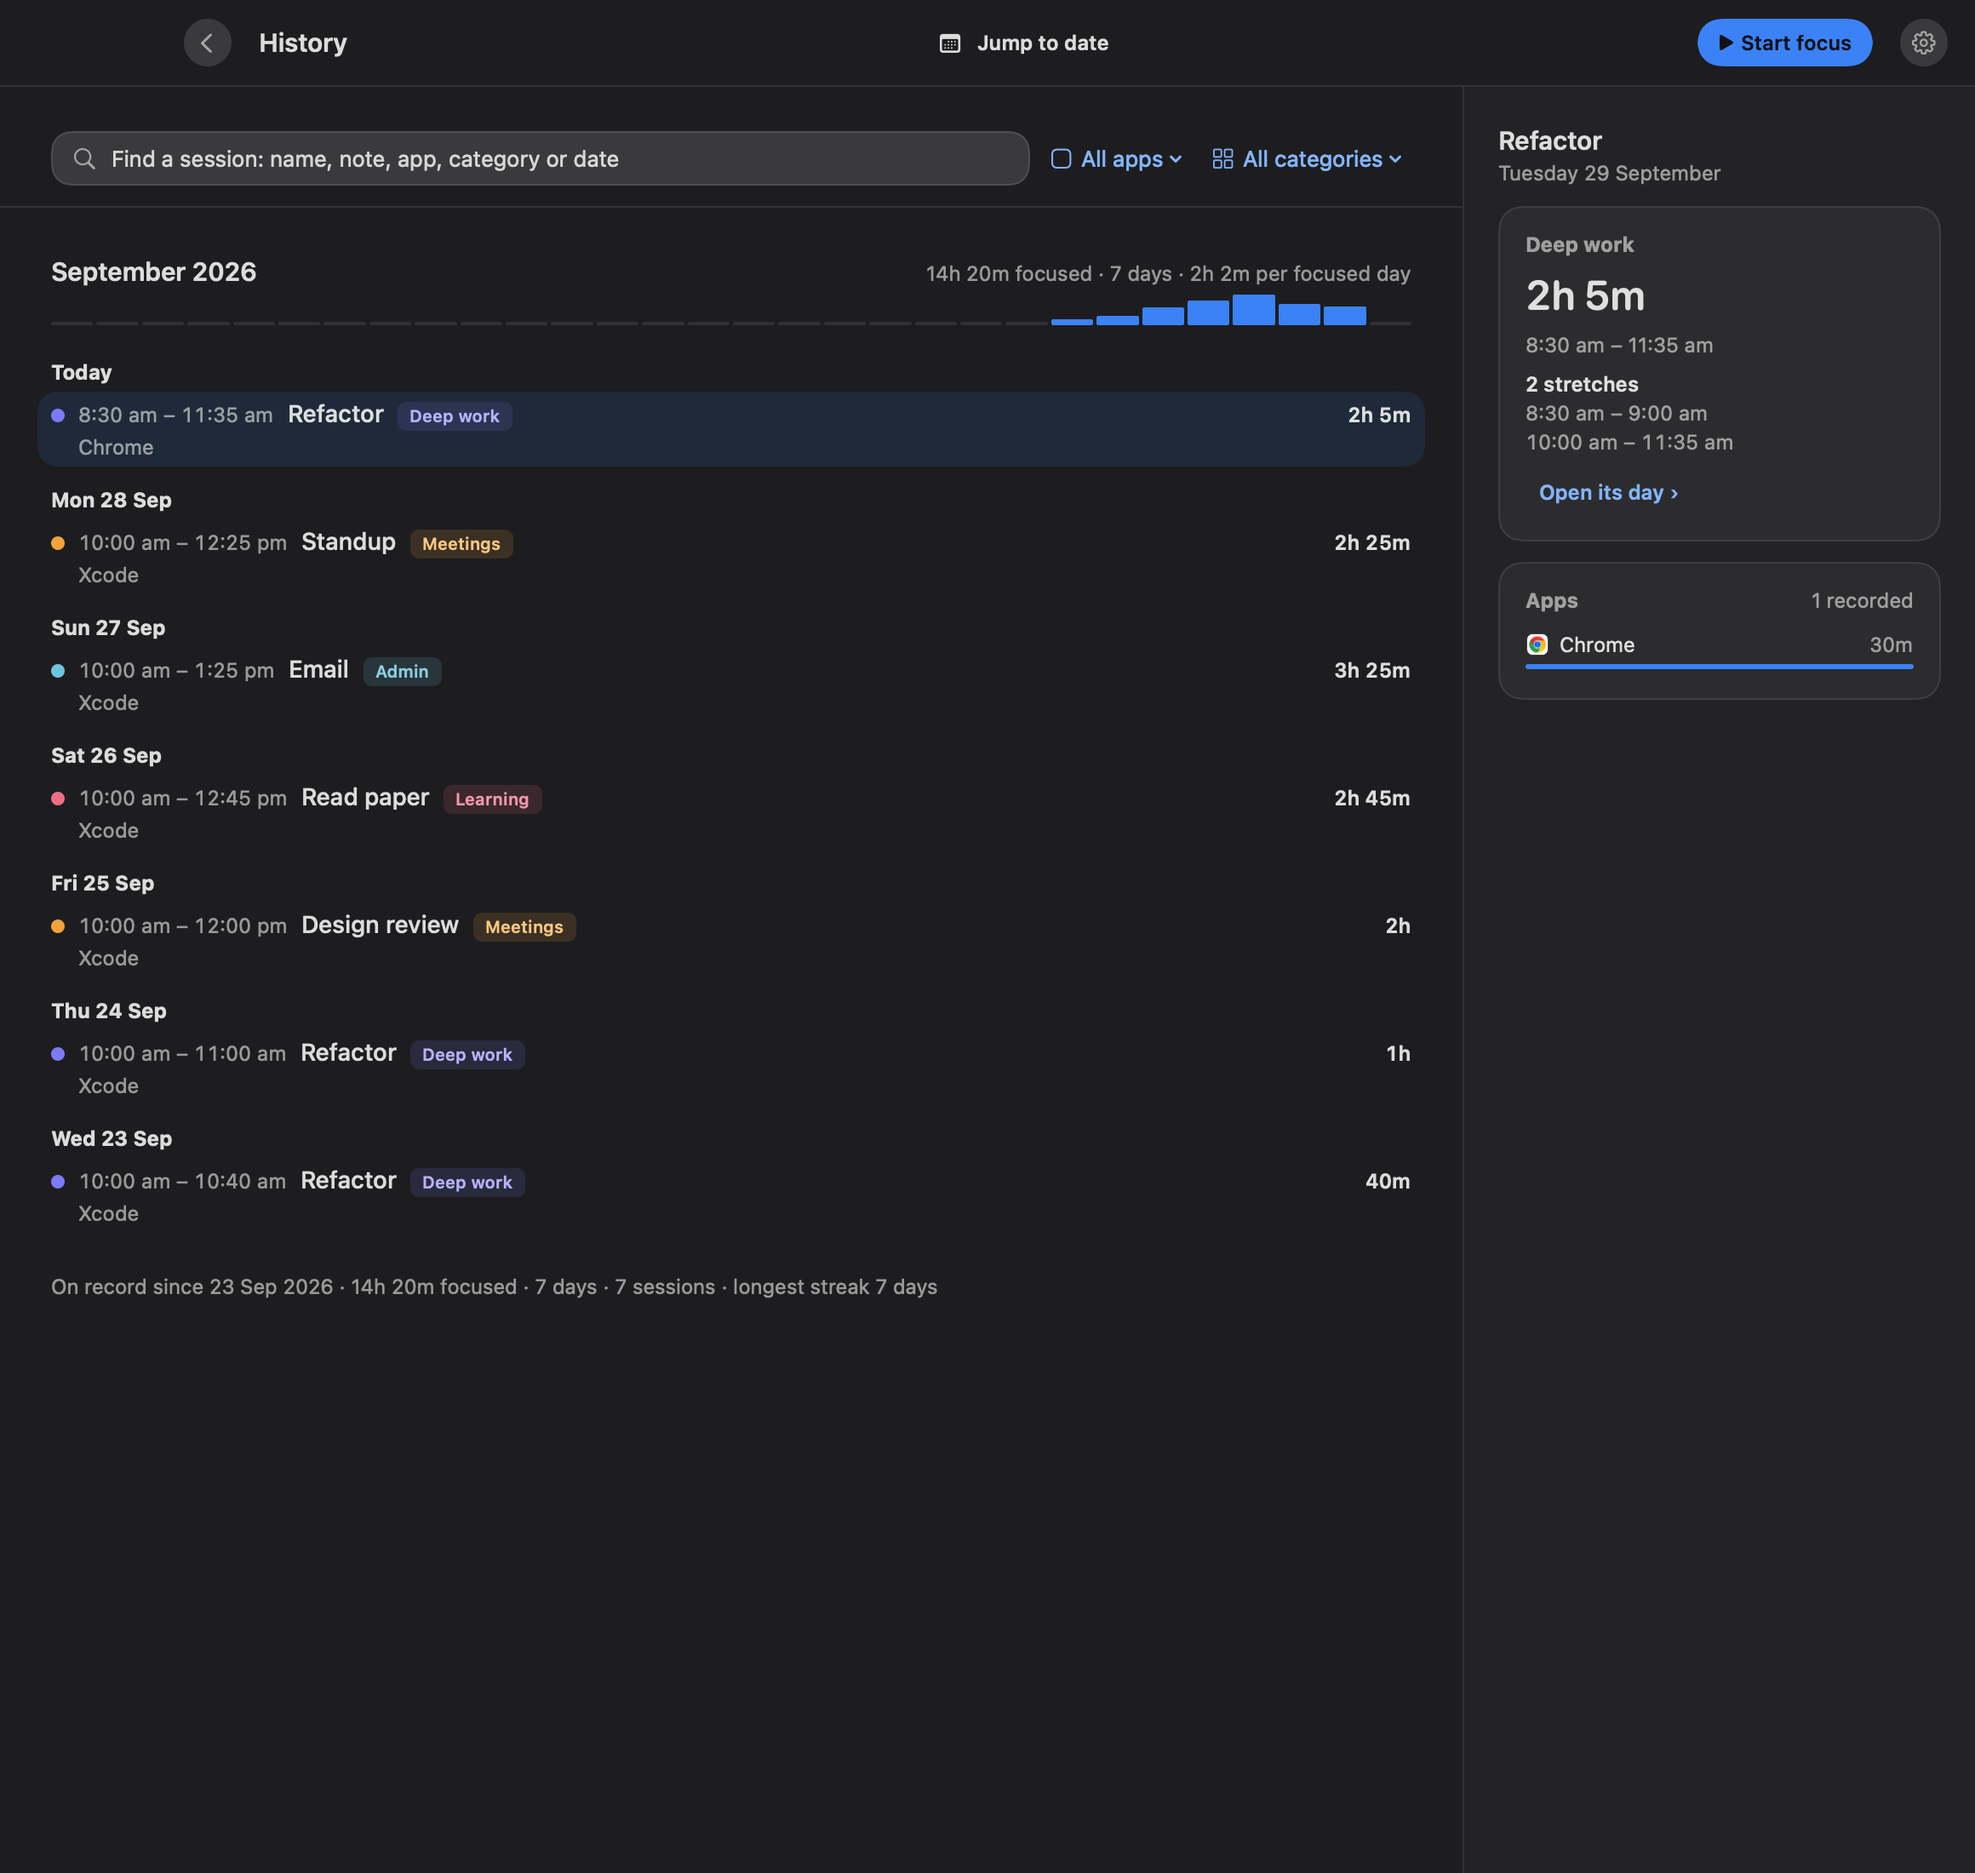
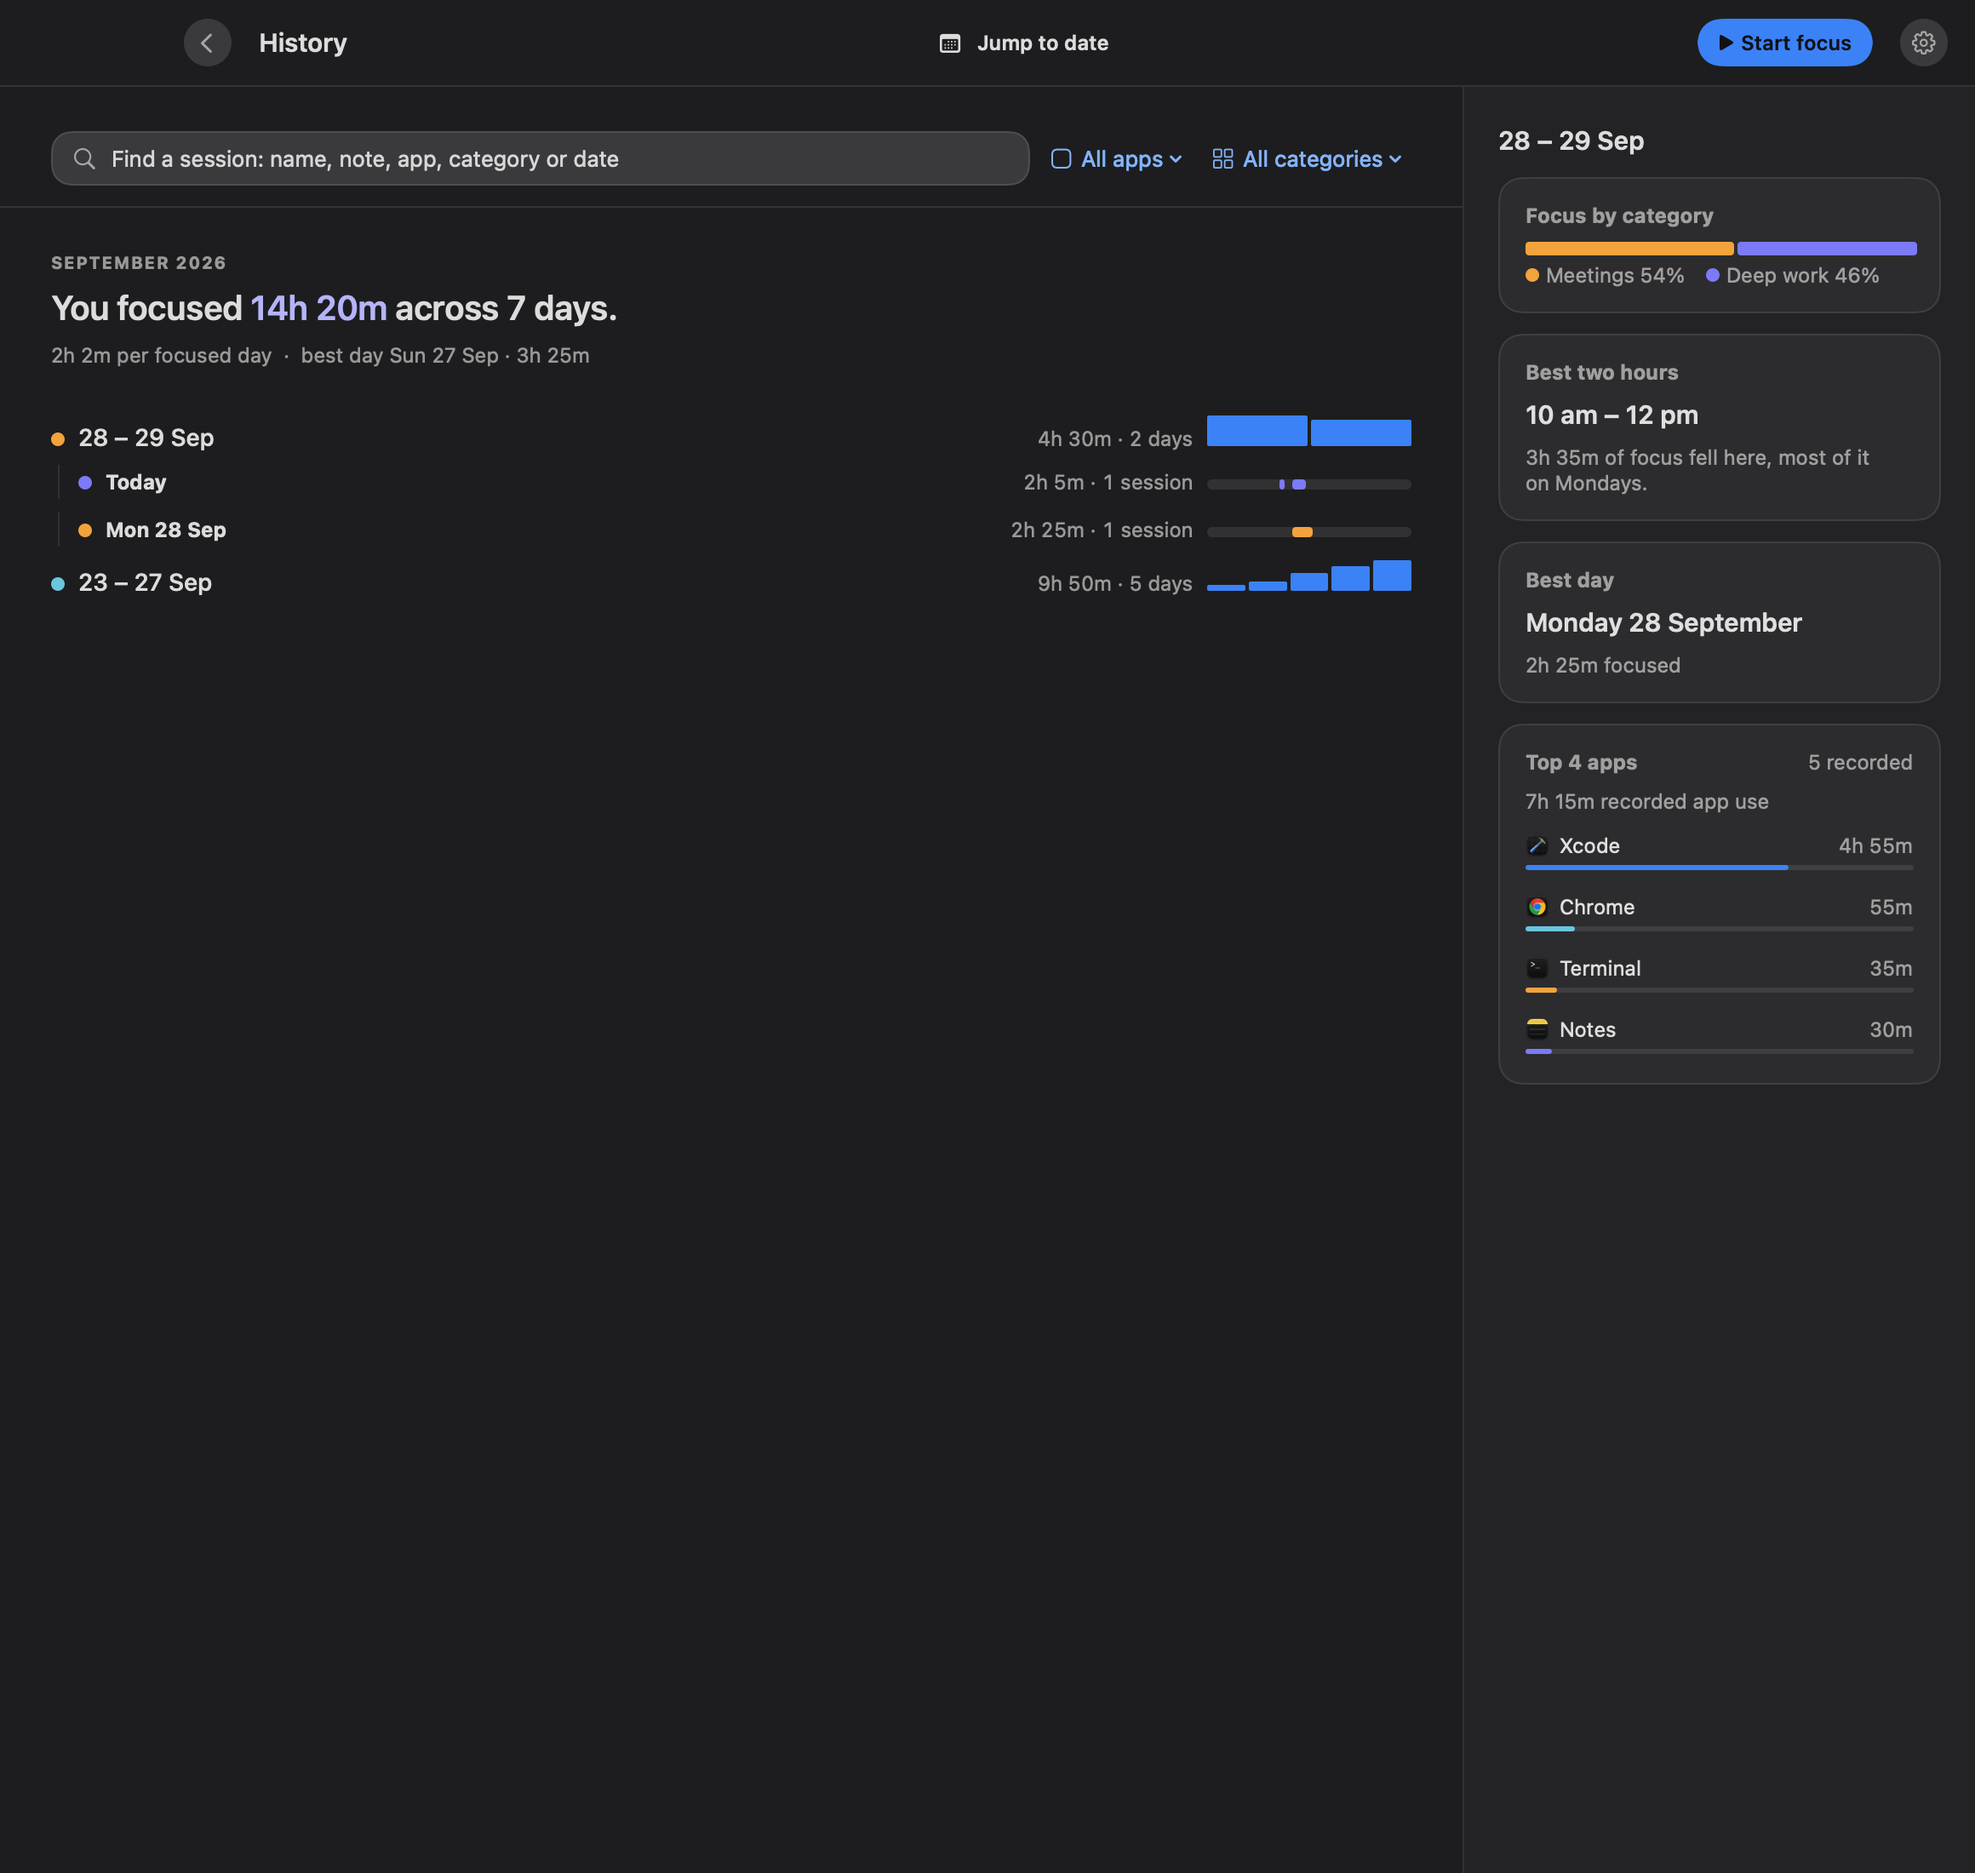
The docs and screenshots show History as one unfolding timeline

diff --git a/Sources/Verification/HistoryTreeChecks.swift b/Sources/Verification/HistoryTreeChecks.swift
@@ -435,6 +435,10 @@ enum HistoryTreeChecks {
         let oneDay = HistoryTreeBuilder.top(days: [row(9, 28, focused: 60, sessions: 1)], today: today, calendar: calendar)
         let weekLine = HistoryRowText.headline(top: oneDay, summary: HistoryTreeBuilder.summary(top: oneDay, days: [row(9, 28, focused: 60, sessions: 1)], calendar: calendar), calendar: calendar)
         if weekLine.sentence != "You focused \(Tokens.duration(60)) across 1 day." { failures.append("one focused day read \(weekLine.sentence)") }
+        // A record of one day, today: its week is that one day, and says so.
+        let oneToday = HistoryTreeBuilder.top(days: [row(9, 29, focused: 60, sessions: 1)], today: today, calendar: calendar)
+        let todayLine = HistoryRowText.headline(top: oneToday, summary: HistoryTreeBuilder.summary(top: oneToday, days: [row(9, 29, focused: 60, sessions: 1)], calendar: calendar), calendar: calendar)
+        if todayLine.eyebrow != "Tuesday 29 September" { failures.append("a one-day record's eyebrow read \(todayLine.eyebrow)") }
         return failures
     }
 

diff --git a/Sources/Surfaces/History/HistoryTreeRow.swift b/Sources/Surfaces/History/HistoryTreeRow.swift
@@ -67,8 +67,11 @@ enum HistoryRowText {
         case .month: eyebrow = DateFormats.australian("MMMM yyyy").string(from: top.span.start)
         case .week:
             let last = calendar.date(byAdding: .day, value: -1, to: top.span.end) ?? top.span.start
-            eyebrow = "\(DateFormats.australian("d").string(from: top.span.start)) – "
-                + DateFormats.australian("d MMMM").string(from: last)
+            // A week of one recorded day is that day.
+            eyebrow = calendar.isDate(top.span.start, inSameDayAs: last)
+                ? DateFormats.australian("EEEE d MMMM").string(from: top.span.start)
+                : "\(DateFormats.australian("d").string(from: top.span.start)) – "
+                    + DateFormats.australian("d MMMM").string(from: last)
         case .day, .none:
             eyebrow = "On record since \(DateFormats.australian("d MMMM yyyy").string(from: top.firstDay))"
         }

diff --git a/docs/usage.md b/docs/usage.md
@@ -12,9 +12,9 @@ a historical day never substitutes today's data.
 | Surface | Question it answers | Main content |
 |---|---|---|
 | Story | What happened on this day? | Focus-led summary, chronological stretches, named rest, app use and honest recording gaps; goal, app use, rhythm and streak in the rail |
-| Calendar | Which day? | Opens from the date label, and from Jump to date in History. Each date shows its focus, or a dot if the Mac only saw app use. A tick marks a met goal, and the month's sum sits in its header |
+| Calendar | Which day? | Opens from Jump to date in History. Each date shows its focus, or a dot if the Mac only saw app use. A tick marks a met goal, and the month's sum sits in its header |
 | Session controls | What should I do now? | Intent, work type, Start, Pause, Resume, Step away, Stop and pending-away decisions |
-| History | How have my days and months gone? Where is that session? | One list, newest first, back to the first recorded day. Search at the top, with app and category filters. Each month shows its focus, focused days and daily average over a thin bar per day; each day its focus; each session its time, name, category, length, apps and the first line of its note. Days with nothing recorded fold into one line. The rail describes the month, day or session you click: category shares, best two hours and goal rates for a month, the day's strip and notes, a session's stretches and full note. Pace, quality and continuity are stated only for the current month, and only when the record supports them |
+| History | How have my years, months, weeks and days gone? Where is that session? | One timeline that unfolds. It opens on the smallest period holding your whole record: this week's days, this month's weeks, this year's months, or every year. Click a row to open it: a year into its months, a month into its weeks, a week into its days, a day into its sessions, each one step in from its parent; one row is open per level. Each row shows its focus, its focused days or sessions, and a thin bar per month or day. Nothing is drawn from before the first recorded day or after today. Search at the top, with app and category filters. The rail describes the deepest open row, or the session you click: category shares, best two hours, goal rates and apps for a period, its best month or day, the day's strip and notes, a session's stretches and full note. Pace, quality and continuity are stated only for the current month, and only when the record supports them |
 | Awards | What milestones have I earned? | Achievements derived from recorded evidence, with their criteria |
 | Settings | How should the app behave? | Real persisted controls, privacy evidence and diagnostics |
 
@@ -27,8 +27,10 @@ a historical day never substitutes today's data.
 | `Command-7` | Session controls |
 | `Command-,` | Settings |
 | `Command-F` | Find in History, from anywhere in the window |
-| Up, Down | In History, move through months, days and sessions |
-| Return | In History, open the selected day's story |
+| Up, Down | In History, move through the rows |
+| Return | In History, open or fold the row; select a session |
+| Left, Right | In History, fold or open the row |
+| Escape | In History, fold the deepest open row |
 | `Option-Command-N` | Start focus |
 | `Option-Command-P` | Pause, or resume a paused session |
 | `Option-Command-A` | Step away |
@@ -46,11 +48,9 @@ whether Control-Option-Space is working, and replays the welcome tour.
 
 Current work is at the top of the timeline; earlier work and rest continue
 downwards. Click an entry's full header to expand it. Inspect an app from the
-rail to see that day's recorded visits. The arrows step a day; the date label
-opens the calendar. In History, click a month, a day or a session and the rail
-describes just that; **Open as a story** (or Return, or a double-click on a
-day) reads the day on the front page. **Jump to date** scrolls the list to a
-day. Choose **Arrange cards** to reorder the
+rail to see that day's recorded visits. The story is always today. In
+History, click a row to open it in place and the rail describes it; **Jump to
+date** opens a day straight away. Choose **Arrange cards** to reorder the
 rail. While arranging, drag a card, or use the up and down arrows in its header
 or its right-click menu; VoiceOver offers Move up and Move down.
 
@@ -120,16 +120,15 @@ save a different correction made elsewhere.
 
 Historical sessions and app use are clipped by local calendar day, so a
 cross-midnight session contributes only its proper portion to each day.
-History's month bars are logged focus, one per day; focus averages use focused
-days. The daily goal ring uses
-focused-active credit; the current streak is explicitly recent even while
-browsing older days. Running focus is included in the day's story and in
+History's row bars are logged focus, one per month or day; focus averages use
+focused days. The daily goal ring uses focused-active credit. Running focus is
+included in the day's story and in
 History without writing synthetic records into the archive.
 
 The Story preserves separate stretches of resumed work so a later stretch does
 not swallow a break or recording gap. Gaps are not assumed to be work or rest.
-An app-only day still displays its observed use. Each History day states its
-focused time; the rail adds recorded app use and the longest stretch.
+An app-only day still displays its observed use. Each History row states its
+focused time; the rail adds recorded app use and, for a day, the longest stretch.
 
 The headline says time **logged across focus sessions**. That total can exceed
 recorded app use without an arithmetic error: these are independently recorded
@@ -177,7 +176,7 @@ preferences. `--fixture-window` opens the real production shell with an
 injected fixture clock and no live-history coordinator or system monitors. Use
 it for native sheets, keyboard focus, appearance, corrections and navigation;
 fixture changes are disposable. `--snapshot` renders light/dark day stories,
-History with a month, a day and a session picked, session controls, Settings, Awards, the
+History opened to a day, with a session picked, searched and with three days recorded, session controls, Settings, Awards, the
 tour's opener and first step, and compact prompts through offscreen AppKit
 hosting, including native controls and real scroll views.
 `FC_SNAPSHOT_ONLY=<scenario>` renders one scenario; the whole matrix takes

diff --git a/README.md b/README.md
@@ -25,9 +25,9 @@ lunch into invented productivity. FocusContinuity is built around one rule:
 
 ## Screenshots
 
-| History, a session picked, dark appearance | History, a month picked |
+| History, a day open and a session picked, dark appearance | History, opened to this week |
 |---|---|
-| ![History in dark mode: one journal by month and day, with a picked session described in the rail](docs/screenshots/history-dark.png) | ![History in light mode: one journal by month and day, with the month's focus described in the rail](docs/screenshots/history.png) |
+| ![History in dark mode: one timeline unfolded to a day, with a picked session described in the rail](docs/screenshots/history-dark.png) | ![History in light mode: this week's days under their week, with the week described in the rail](docs/screenshots/history.png) |
 
 | Menu bar | Away decision |
 |---|---|
@@ -114,17 +114,18 @@ machinery that nothing used any more, with no change in behaviour.
 
 ## Features
 
-- The day told as a story, with its goal, app use, rhythm and streak beside
-  it; a calendar jumps to any recorded day
+- Today told as a story, with its goal, app use, rhythm and streak beside it
 - Focus sessions with pause, away, breaks and threads you can continue later
 - Optional activity rules that start sessions from the apps you use, always
   saying why and offering Undo
-- History as one journal, newest first, back to the first recorded day. Each
-  month, day and session shows its own figures; click one and the rail
-  describes just that. Jump to date opens a calendar that shows each day's focus
+- History as one timeline that unfolds: years into months, months into weeks,
+  weeks into days, days into sessions, each a step in from its parent, back to
+  the first recorded day and no further. The rail describes whichever row is
+  open. Jump to date opens a calendar that shows each day's focus
 - Search at the top of History: sessions by name, note, app, category or date (⌘F)
 - History states only what the record supports: category shares, best two
-  hours, goal rates and the month's pace, quality and continuity
+  hours, goal rates, the best month or day, and the current month's pace,
+  quality and continuity
 - Custom categories with icons, colours, daily goals and break reminders
 - Session notes with in-app dictation, full session reports and named breaks
 - Awards derived from recorded evidence, with their criteria shown
